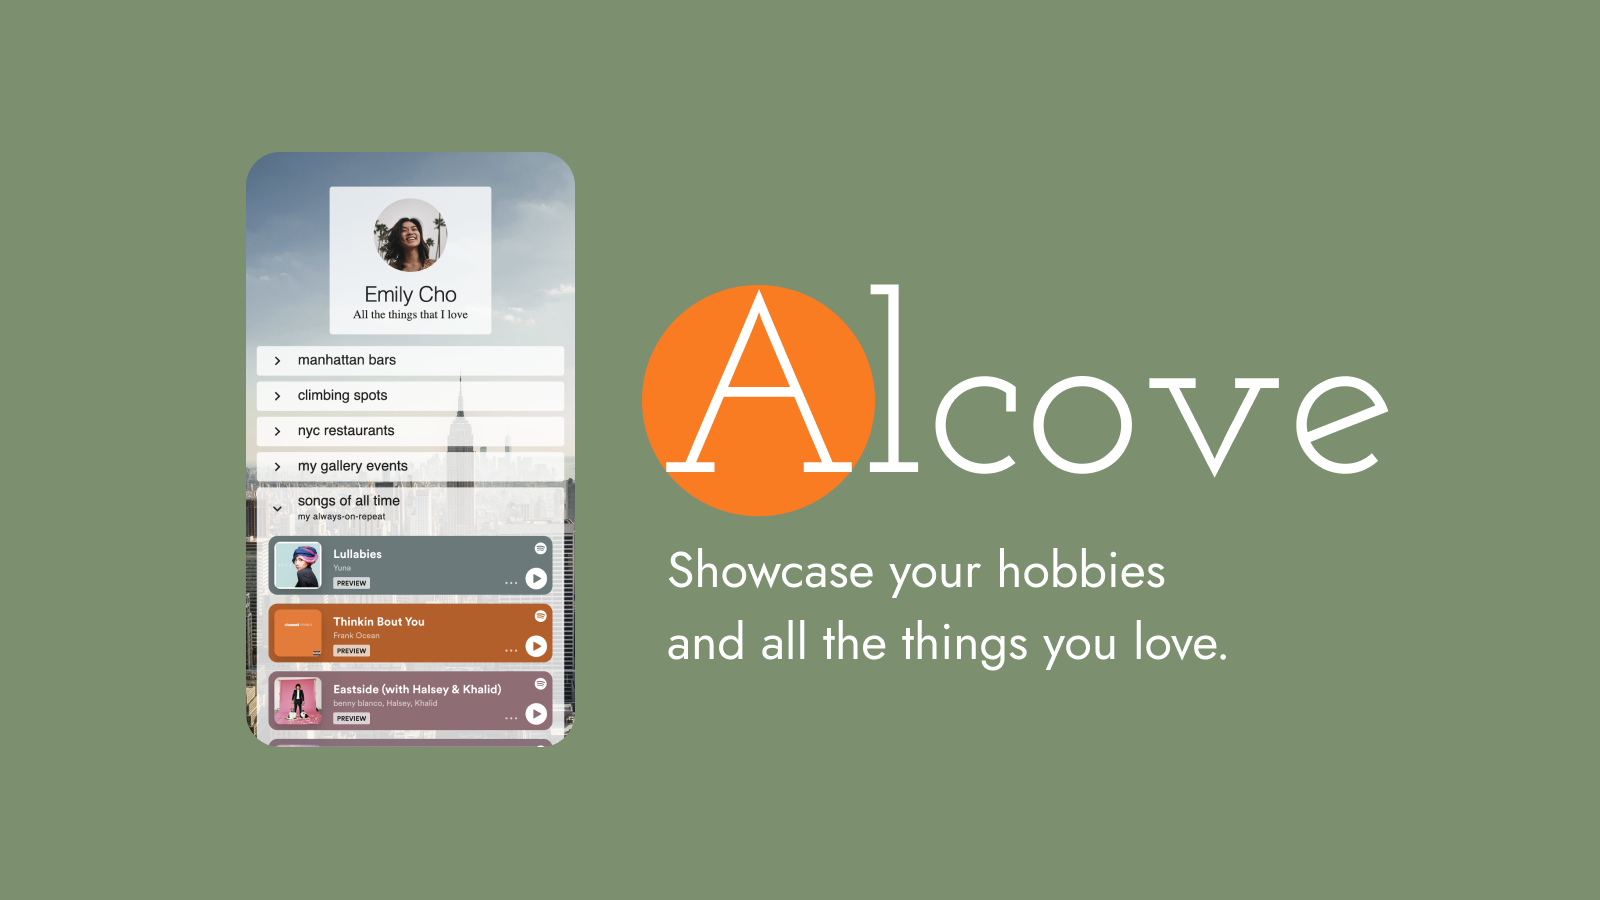
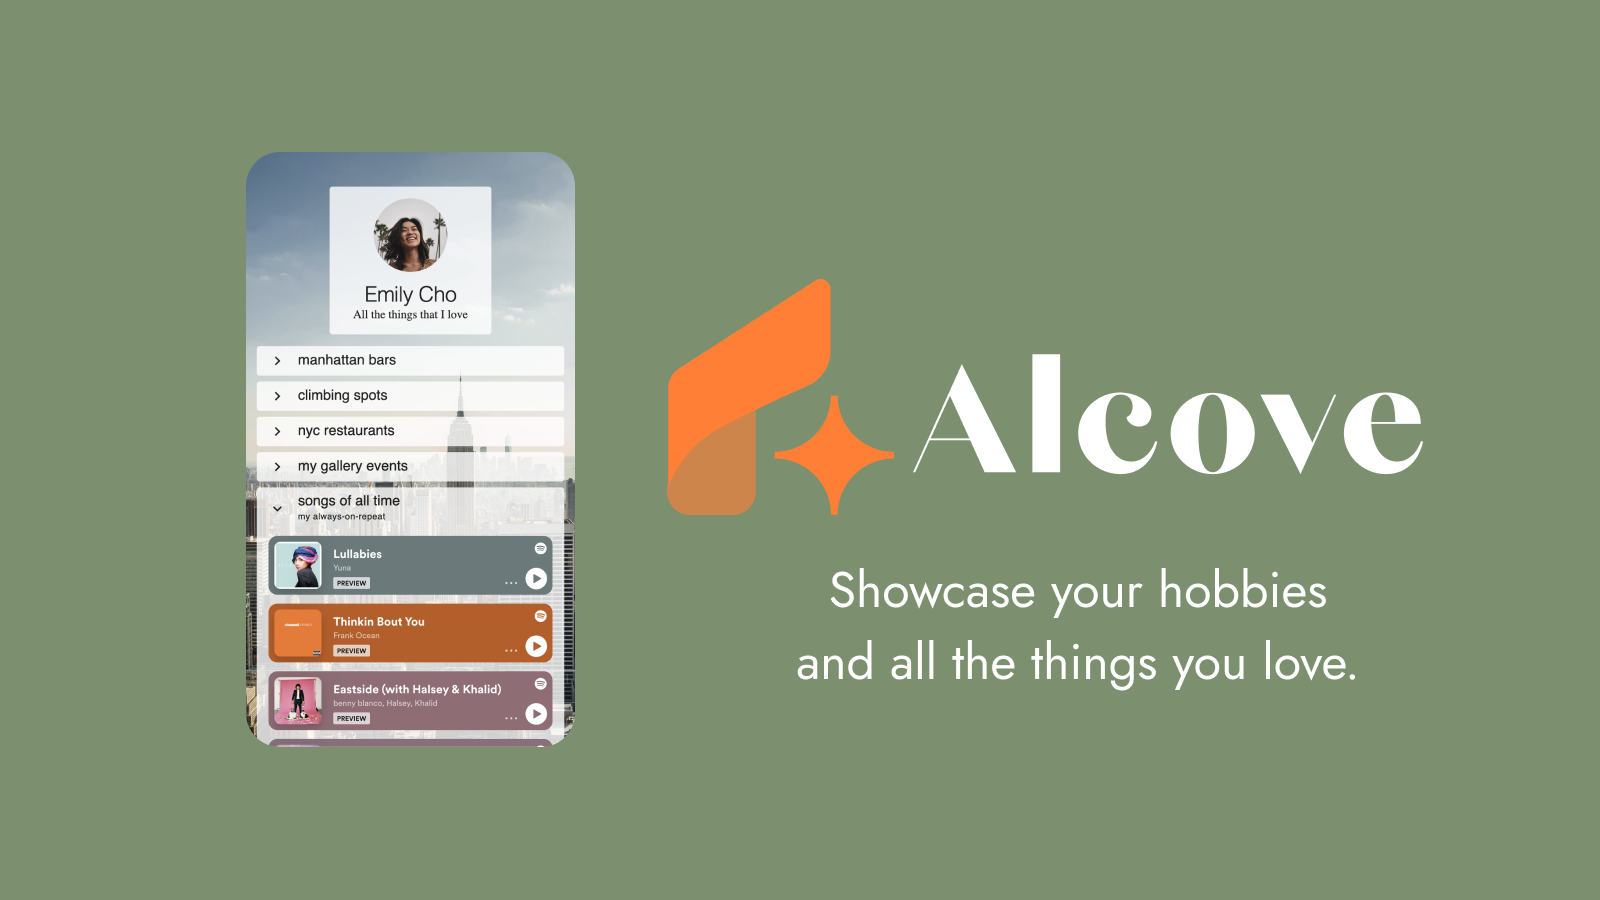
profile social share

Changed region(s): [[0.375, 0.3111, 0.9062, 0.5911], [0.4062, 0.6222, 0.8438, 0.7778]]

diff --git a/components/profile/Profile.js b/components/profile/Profile.js
@@ -76,6 +76,10 @@ export default function Profile({ user, triggerReload, publicView = false }) {
                 <meta name="viewport" content="width=device-width, initial-scale=1" />
                 <meta property="og:title" content={`${title} - @${handle} - Alcove`} />
                 <meta
+                    property="og:image"
+                    content="/social-share-profile.png"
+                />
+                <meta
                     property="og:description"
                     content={`See @${handle}'s profile on Alcove`}
                 />
@@ -99,7 +103,7 @@ export default function Profile({ user, triggerReload, publicView = false }) {
                         <RearrangeItemsButton key="rearrange-items-button" onClick={() => setReorderItems(true)} />
                         <ThemingButton key="theming-button" onClick={() => setThemeOpen(true)} />
                         <ViewAsPublicButton link={`${handle}/public`} key="view-as-public-button" />
-                        <LogoutButton onClick={logoutUser}/>
+                        <LogoutButton onClick={logoutUser} />
                     </Stack>}
 
                     {(!config.hide_logo && !ownerSignedIn) && <AlcoveProfileLogo />}
